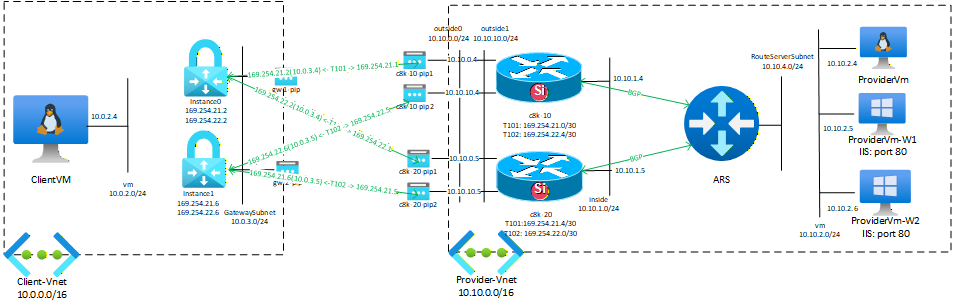
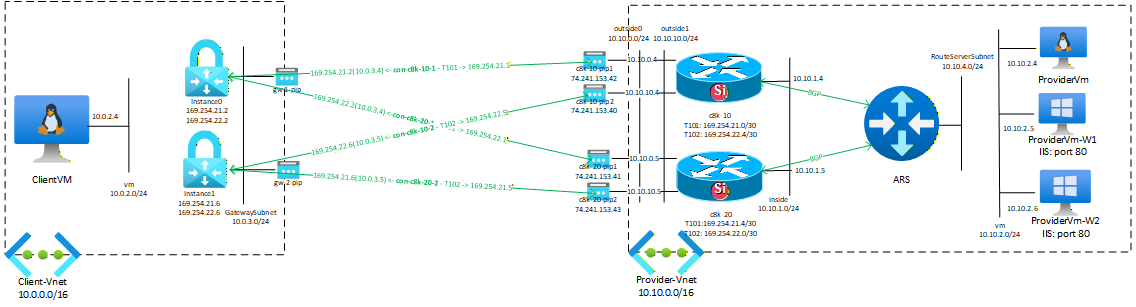
updates

diff --git a/README.md b/README.md
@@ -9,7 +9,97 @@ Common practice is for remote devices to have a single public IP address per ins
 
 [How to connect AWS and Azure using a BGP-enabled VPN gateway](https://learn.microsoft.com/en-us/azure/vpn-gateway/vpn-gateway-howto-aws-bgp) describes how to build a highly available S2S VPN connection between AWS and Azure.
 
+This lab deploys a S2S VPN in the configuration required by AWS.
+
+## Architecture
+
+The deployment consists of a Client-VNET, holding a VNET Gateway, and a Provider-VNET containing a pair of Cisco 8000v NVAs that simulates the AWS end of the connection. Each NVA has *two* outside interfaces with a Public IP attached, on separate subnets.
+
+Four Local Network Gateways represent the NVA's:
+
+| LNG          |NVA Public IP | NVA BGP IP   | 
+|--------------|----------    |--------------|
+|lng-c8k-10-1  |c8k-10-pip1   | 169.254.21.1 |
+|lng-c8k-10-2  |c8k-10-pip2   | 169.254.22.5 |
+|lng-c8k-20-1  |c8k-20-pip1   | 169.254.22.1 |
+|lng-c8k-20-2  |c8k-20-pip2   | 169.254.21.5 |
+
+Connection objects connect the VNET Gateway to the LNGs. With an Active-Active VNET Gateway each Connection object represents *two* tunnels, one from each Gateway Instance to the LNG it connects to. When the remote device has *two* public endpoints, and is represented by *two* LNGs (which is the more common configuration), this reults in a full bow-tie of four tunnels. 
+
+In the the AWS set-up we have *four* LNGs, and we need *four* Connections - of which only one tunnel is actually used. The other tunnel does not have a corresponding tunnel interface configuration on the NVA (or AWS VPN Gateway) and remains unused.
+
+|Connection   |From GW Instance |To LNG        | NVA Public IP |Custom BGP Address     |NVA Tunnel int  | NVA BGP IP | 
+|-------------|-----------------|--------------|-------------- |--------------------   |----------------|------------|
+|con-c8k-10-1 |Instance 0       |lng-c8k-10-1  |c8k-10-pip1    |169.254.21.2           |c8k-10 Tunnel101|169.254.21.1|
+|             |Instance 1       |              |               |169.254.21.6 (not used)|none            |none        |
+|con-c8k-10-2 |Instance 0       |lng-c8k-10-2  |               |169.254.22.2 (not used)|none            |none        |
+|             |Instance 1       |              |c8k-10-pip2    |169.254.22.6           |c8k-10 Tunnel102|169.254.22.5|
+|con-c8k-20-1 |Instance 0       |lng-c8k-20-1  |c8k-20-pip1    |169.254.22.2           |c8k-20 Tunnel101|169.254.22.1|
+|             |Instance 1       |              |               |169.254.21.6 (not used)|none            |none        |
+|con-c8k-20-2 |Instance 0       |lng-c8k-20-2  |               |169.254.22.2 (not used)|none            |none        |
+|             |Instance 1       |              |c8k-20-pip2    |169.254.21.6           |c8k-20 Tunnel102|169.254.21.5|
+
+Each instance of the VNET Gateway is configured with two Custom (APIPA) BGP addresses. Each Connection object has two APIPA addresses selected, of which only one is used per the table above. The tunnel interfaces on the NVA's are assigned APIPA addresses, which are also used to source the neighbors to the VNET Gateway. This configuration does not use Loopback addresses.
+
 ![image](/images/vpn-bgp-apipa-aws.png)
 
- 
+ ## Deploy
+Log in to Azure Cloud Shell at https://shell.azure.com/ and select Bash.
 
+Ensure Azure CLI and extensions are up to date:
+  
+      az upgrade --yes
+  
+If necessary select your target subscription:
+  
+      az account set --subscription <Name or ID of subscription>
+  
+Clone the  GitHub repository:
+  
+      git clone https://github.com/mddazure/vpn-bgp-apipa-aws
+  
+Change directory:
+  
+      cd ./vpn-bgp-apipa-aws
+
+Accept the terms for the CSR8000v Marketplace offer:
+
+      az vm image terms accept -p cisco -f cisco-c8000v-byol --plan 17_13_01a-byol -o none
+
+Deploy the Bicep template:
+
+      az deployment sub create --location swedencentral --template-file templates/main.bicep
+
+Verify that all components in the diagram above have been deployed to the resourcegroup `vpn-bgp-apipa-aws-rg` and are healthy. 
+
+Credentials to the Cisco 8000v NVAs and the other VMs:
+
+Username = `AzureAdmin`
+
+Password = `vpn@123456`
+
+## Configure
+Both Cisco 8000v NVA's are up but must still be configured.
+
+Log in to the each NVA, preferably via the Serial console in the portal as this does not rely on network connectivity in the VNET. 
+  - Serial console is under Support + troubleshooting in the Virtual Machine blade.
+
+Enter credentials.
+
+Enter Enable mode by typing `en` at the prompt, then enter Configuration mode by typing `conf t`. Paste in the below commands:
+
+      license boot level network-advantage addon dna-advantage
+      do wr mem
+      do reload
+
+The NVA will now reboot. When rebooting is complete log on again through Serial Console. Enter Enable mode by typing `en` at the prompt, then enter Configuration mode by typing `conf t`.
+
+Retrieve the instance public IP addresses of VNET Gateway `client-Vnet-gw`  either from the output of the deployment or from the portal.
+
+Copy [c8k-10.ios](https://raw.githubusercontent.com/mddazure/vpn-bgp-apipa-aws/refs/heads/main/templates/c8k-10.ios) and [c8k-20.ios](https://raw.githubusercontent.com/mddazure/vpn-bgp-apipa-aws/refs/heads/main/templates/c8k-10.ios) into Notepad and replace the [gw-1-pip] and [gw-2-pip] placeholders by  the gateway's public IP addresses.
+
+Copy and paste the configurations into each of the NVAs. 
+
+On both Cisco 8000v NVA's:
+
+- Verify that the Tunnel interfaces are up by entering `sh ip int brief`:
